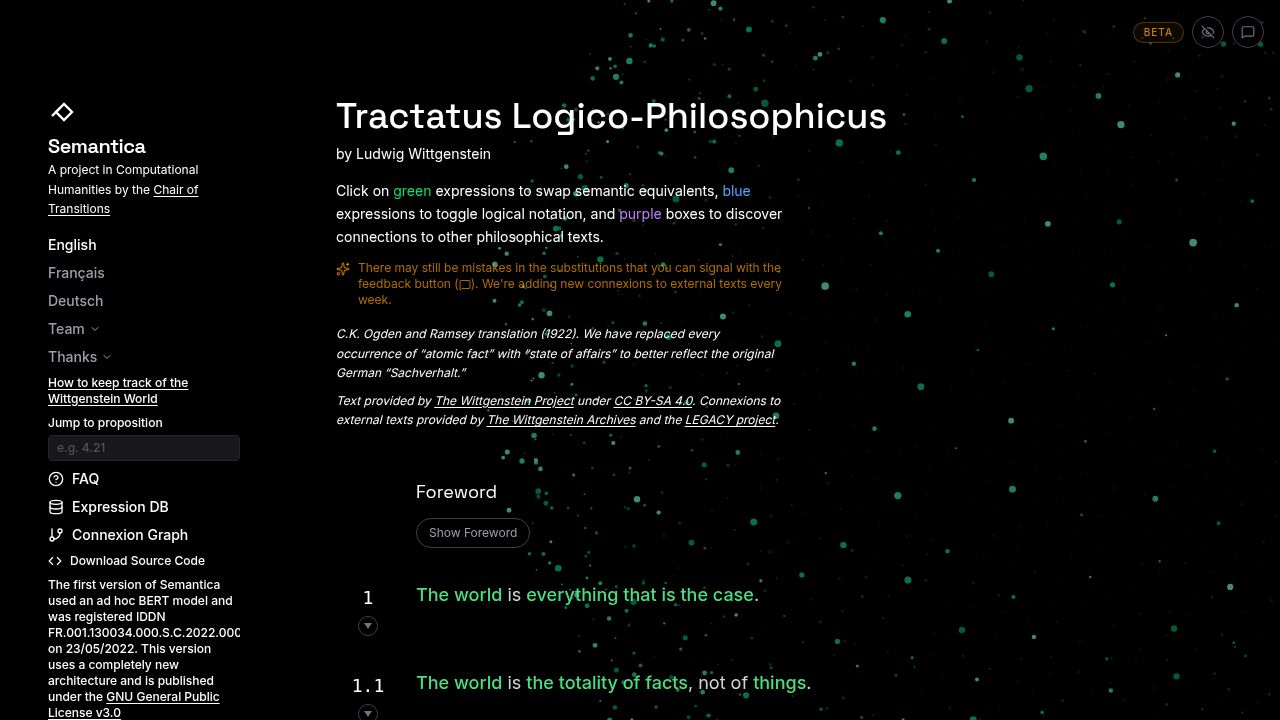
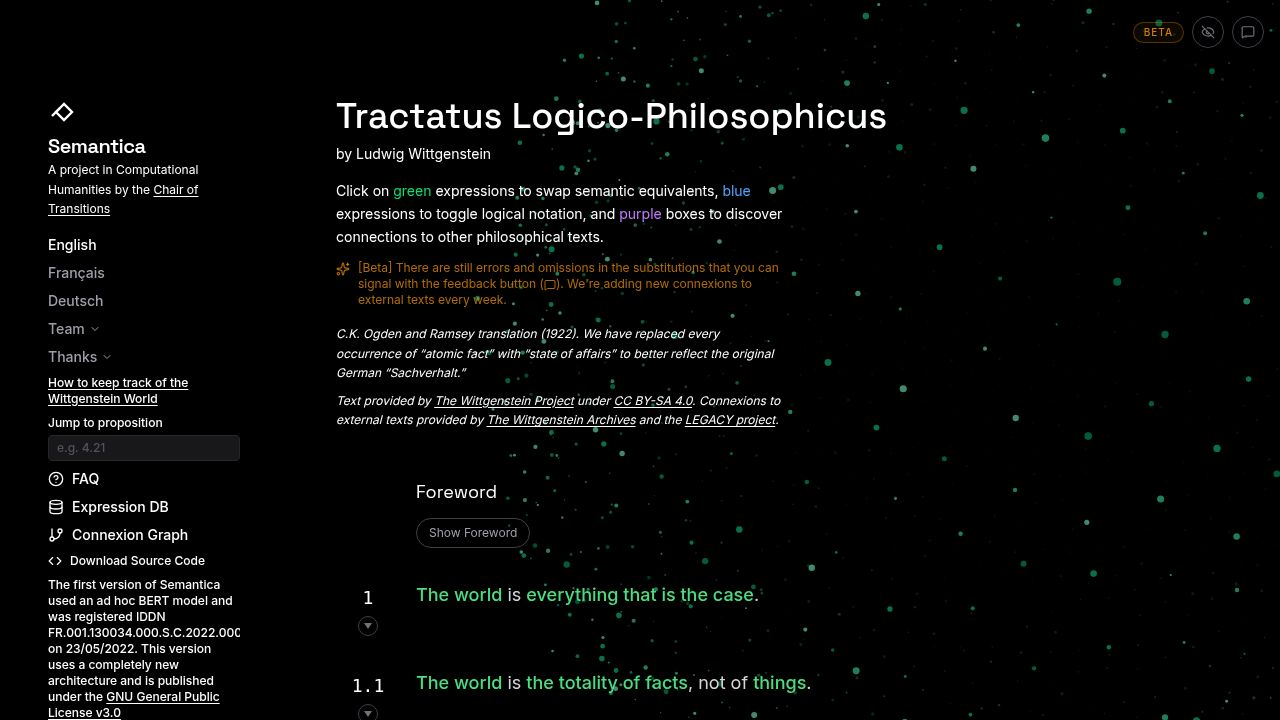
Update warning text and add new synonym groups across all languages
Updates the beta warning text and adds new French, English, and German synonym groups for various philosophical terms.

Replit-Commit-Author: Agent
Replit-Commit-Session-Id: 3d3c5ee8-30ca-449f-a36a-2a26b9467d3a
Replit-Commit-Checkpoint-Type: full_checkpoint
Replit-Commit-Event-Id: ce0de0d0-17b1-40f4-9201-a04e0d3a42f9
Replit-Commit-Screenshot-Url: https://storage.googleapis.com/screenshot-production-us-central1/2c497065-9d4a-4f02-8f2e-021a778ebca1/3d3c5ee8-30ca-449f-a36a-2a26b9467d3a/cBXHVi8
Replit-Helium-Checkpoint-Created: true

diff --git a/client/src/pages/Home.tsx b/client/src/pages/Home.tsx
@@ -669,7 +669,7 @@ export default function Home() {
             )}
             <div className="mt-3 flex items-start gap-2 text-amber-500/70 text-xs max-w-md">
               <Sparkles className="w-3.5 h-3.5 mt-0.5 shrink-0" />
-              <p>{language === 'fr' ? <>Il peut encore y avoir des erreurs dans les substitutions que vous pouvez signaler avec le bouton de retour (<MessageSquare className="w-3 h-3 inline" />). Nous ajoutons de nouvelles connexions à des textes externes chaque semaine.</> : language === 'de' ? <>Es können noch Fehler in den Substitutionen vorhanden sein, die Sie mit dem Feedback-Button (<MessageSquare className="w-3 h-3 inline" />) melden können. Wir fügen jede Woche neue Verbindungen zu externen Texten hinzu.</> : <>There may still be mistakes in the substitutions that you can signal with the feedback button (<MessageSquare className="w-3 h-3 inline" />). We're adding new connexions to external texts every week.</>}</p>
+              <p>{language === 'fr' ? <>[Beta] Il y a encore des erreurs et des oublis dans les substitutions que vous pouvez signaler avec le bouton de retour (<MessageSquare className="w-3 h-3 inline" />). Nous ajoutons de nouvelles connexions à des textes externes chaque semaine.</> : language === 'de' ? <>[Beta] Es gibt noch Fehler und Auslassungen in den Substitutionen, die Sie mit dem Feedback-Button (<MessageSquare className="w-3 h-3 inline" />) melden können. Wir fügen jede Woche neue Verbindungen zu externen Texten hinzu.</> : <>[Beta] There are still errors and omissions in the substitutions that you can signal with the feedback button (<MessageSquare className="w-3 h-3 inline" />). We're adding new connexions to external texts every week.</>}</p>
             </div>
             <div className="mt-4 text-white text-xs leading-relaxed max-w-md italic">
               {language === 'fr' ? (
